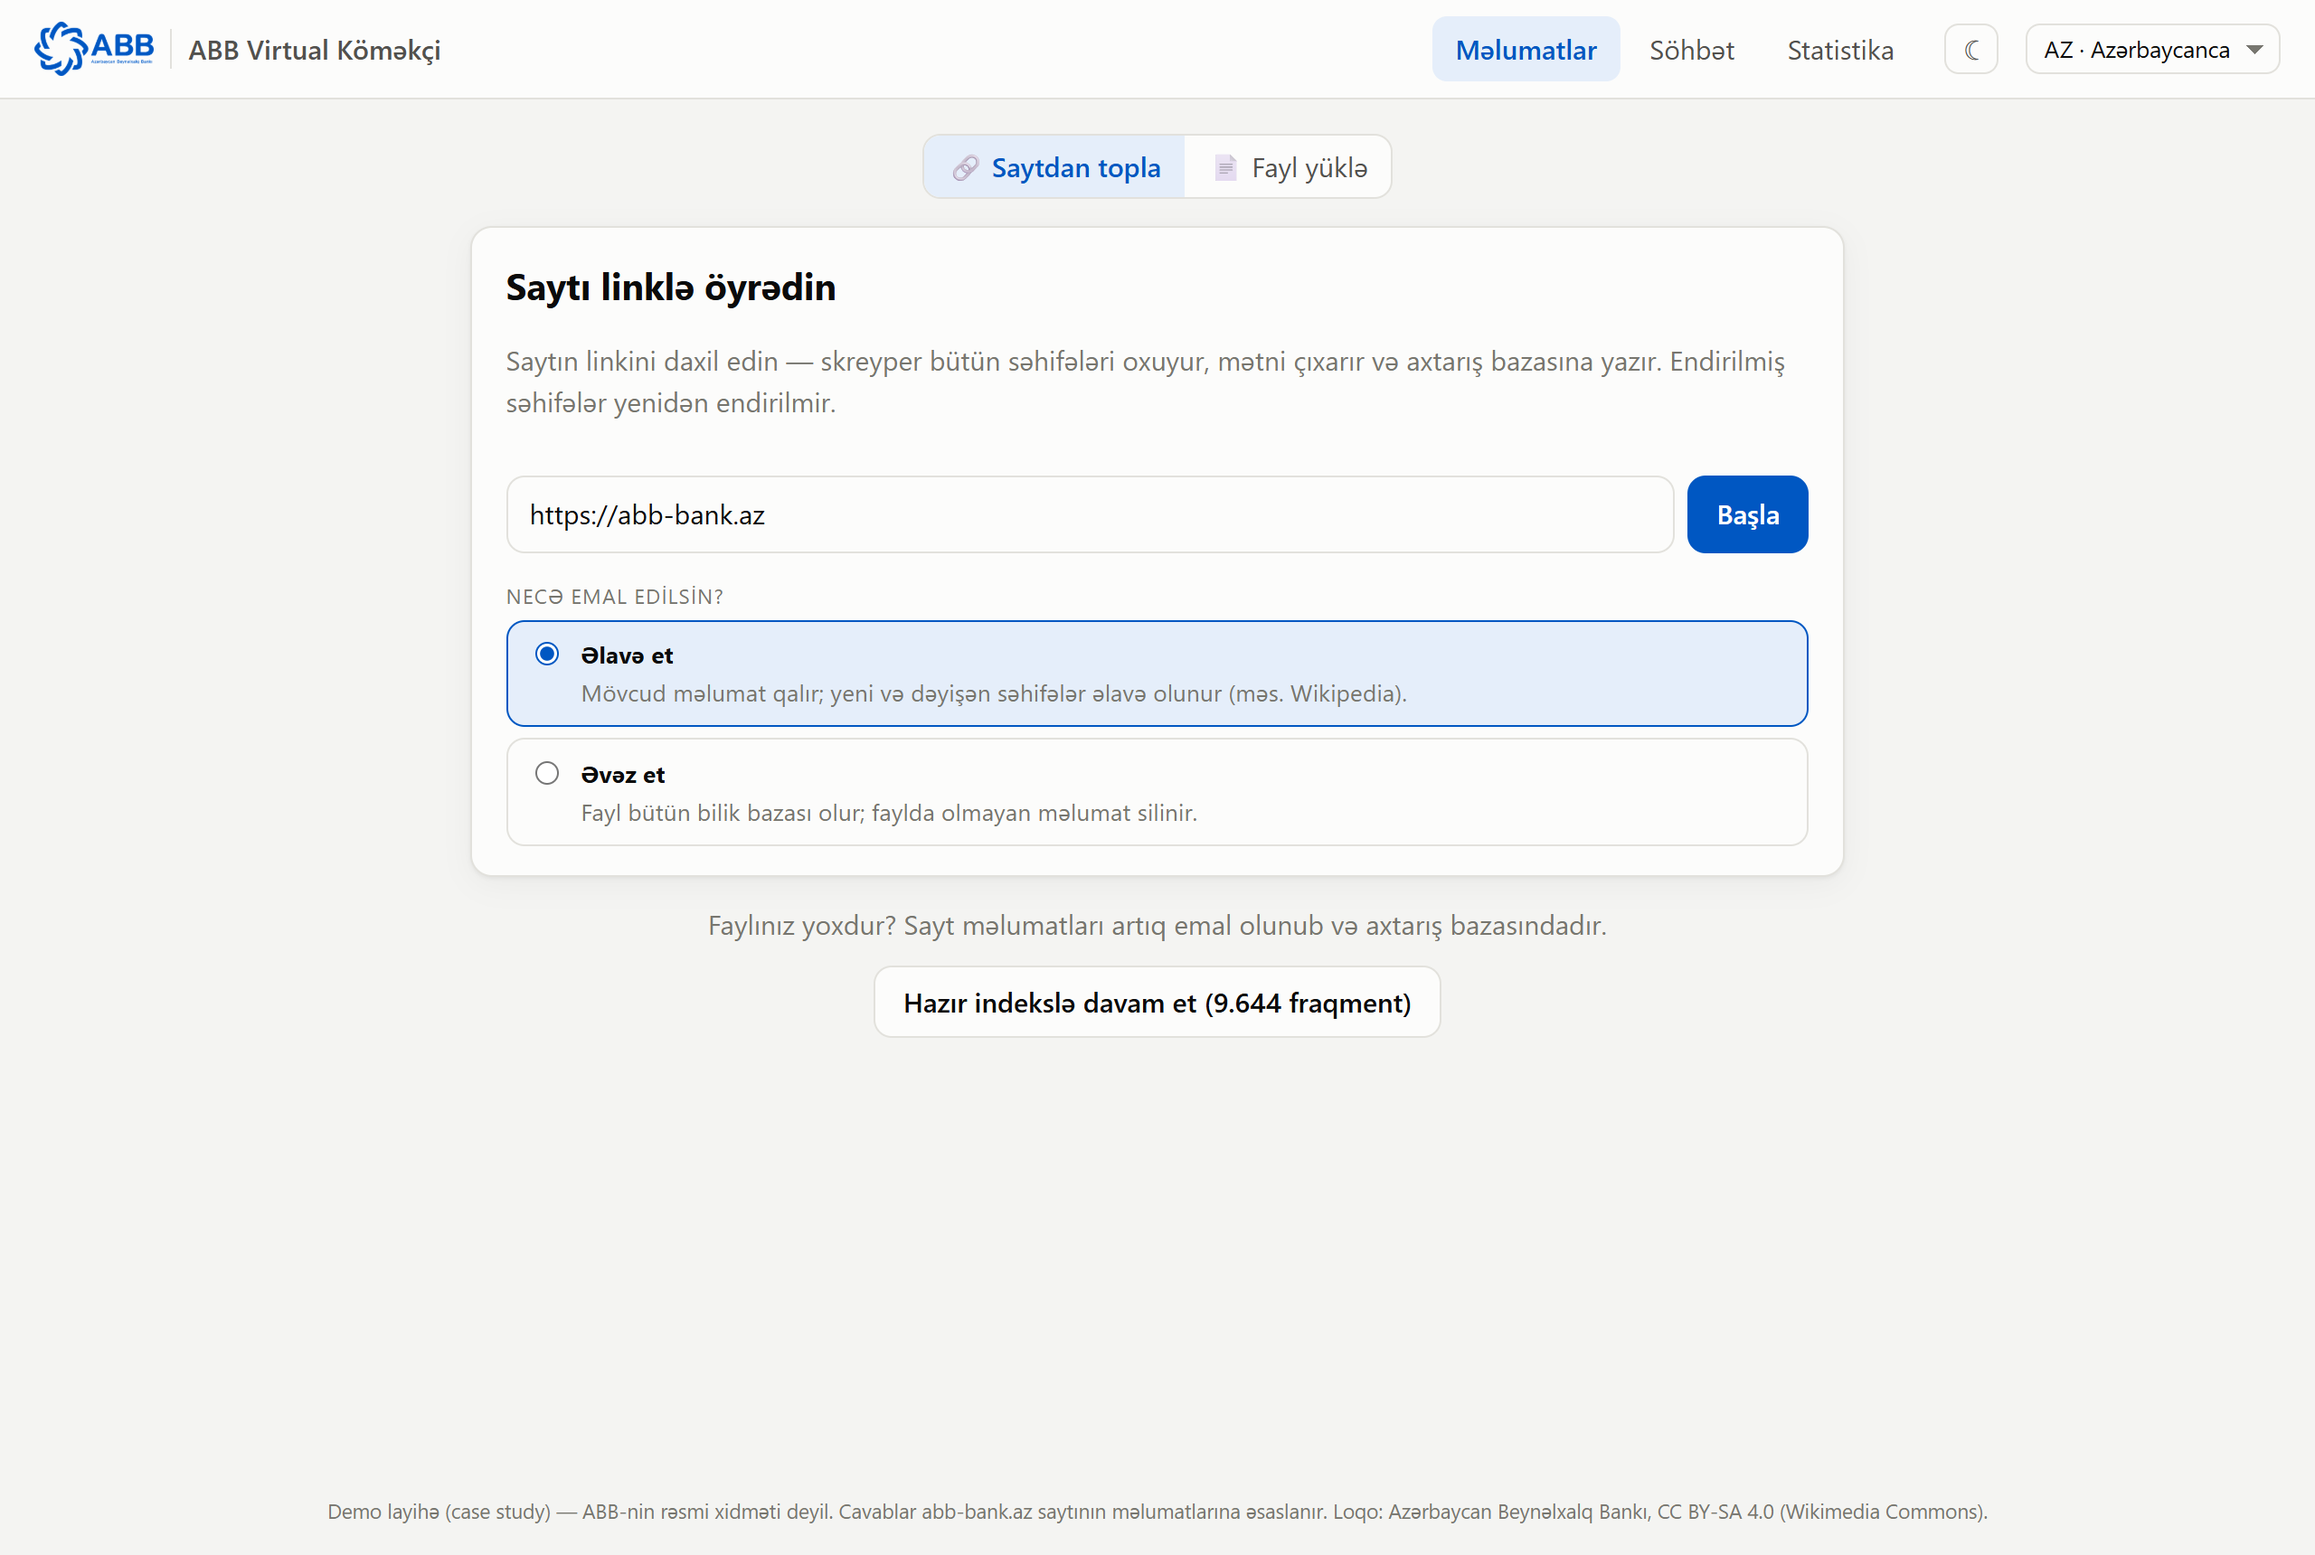
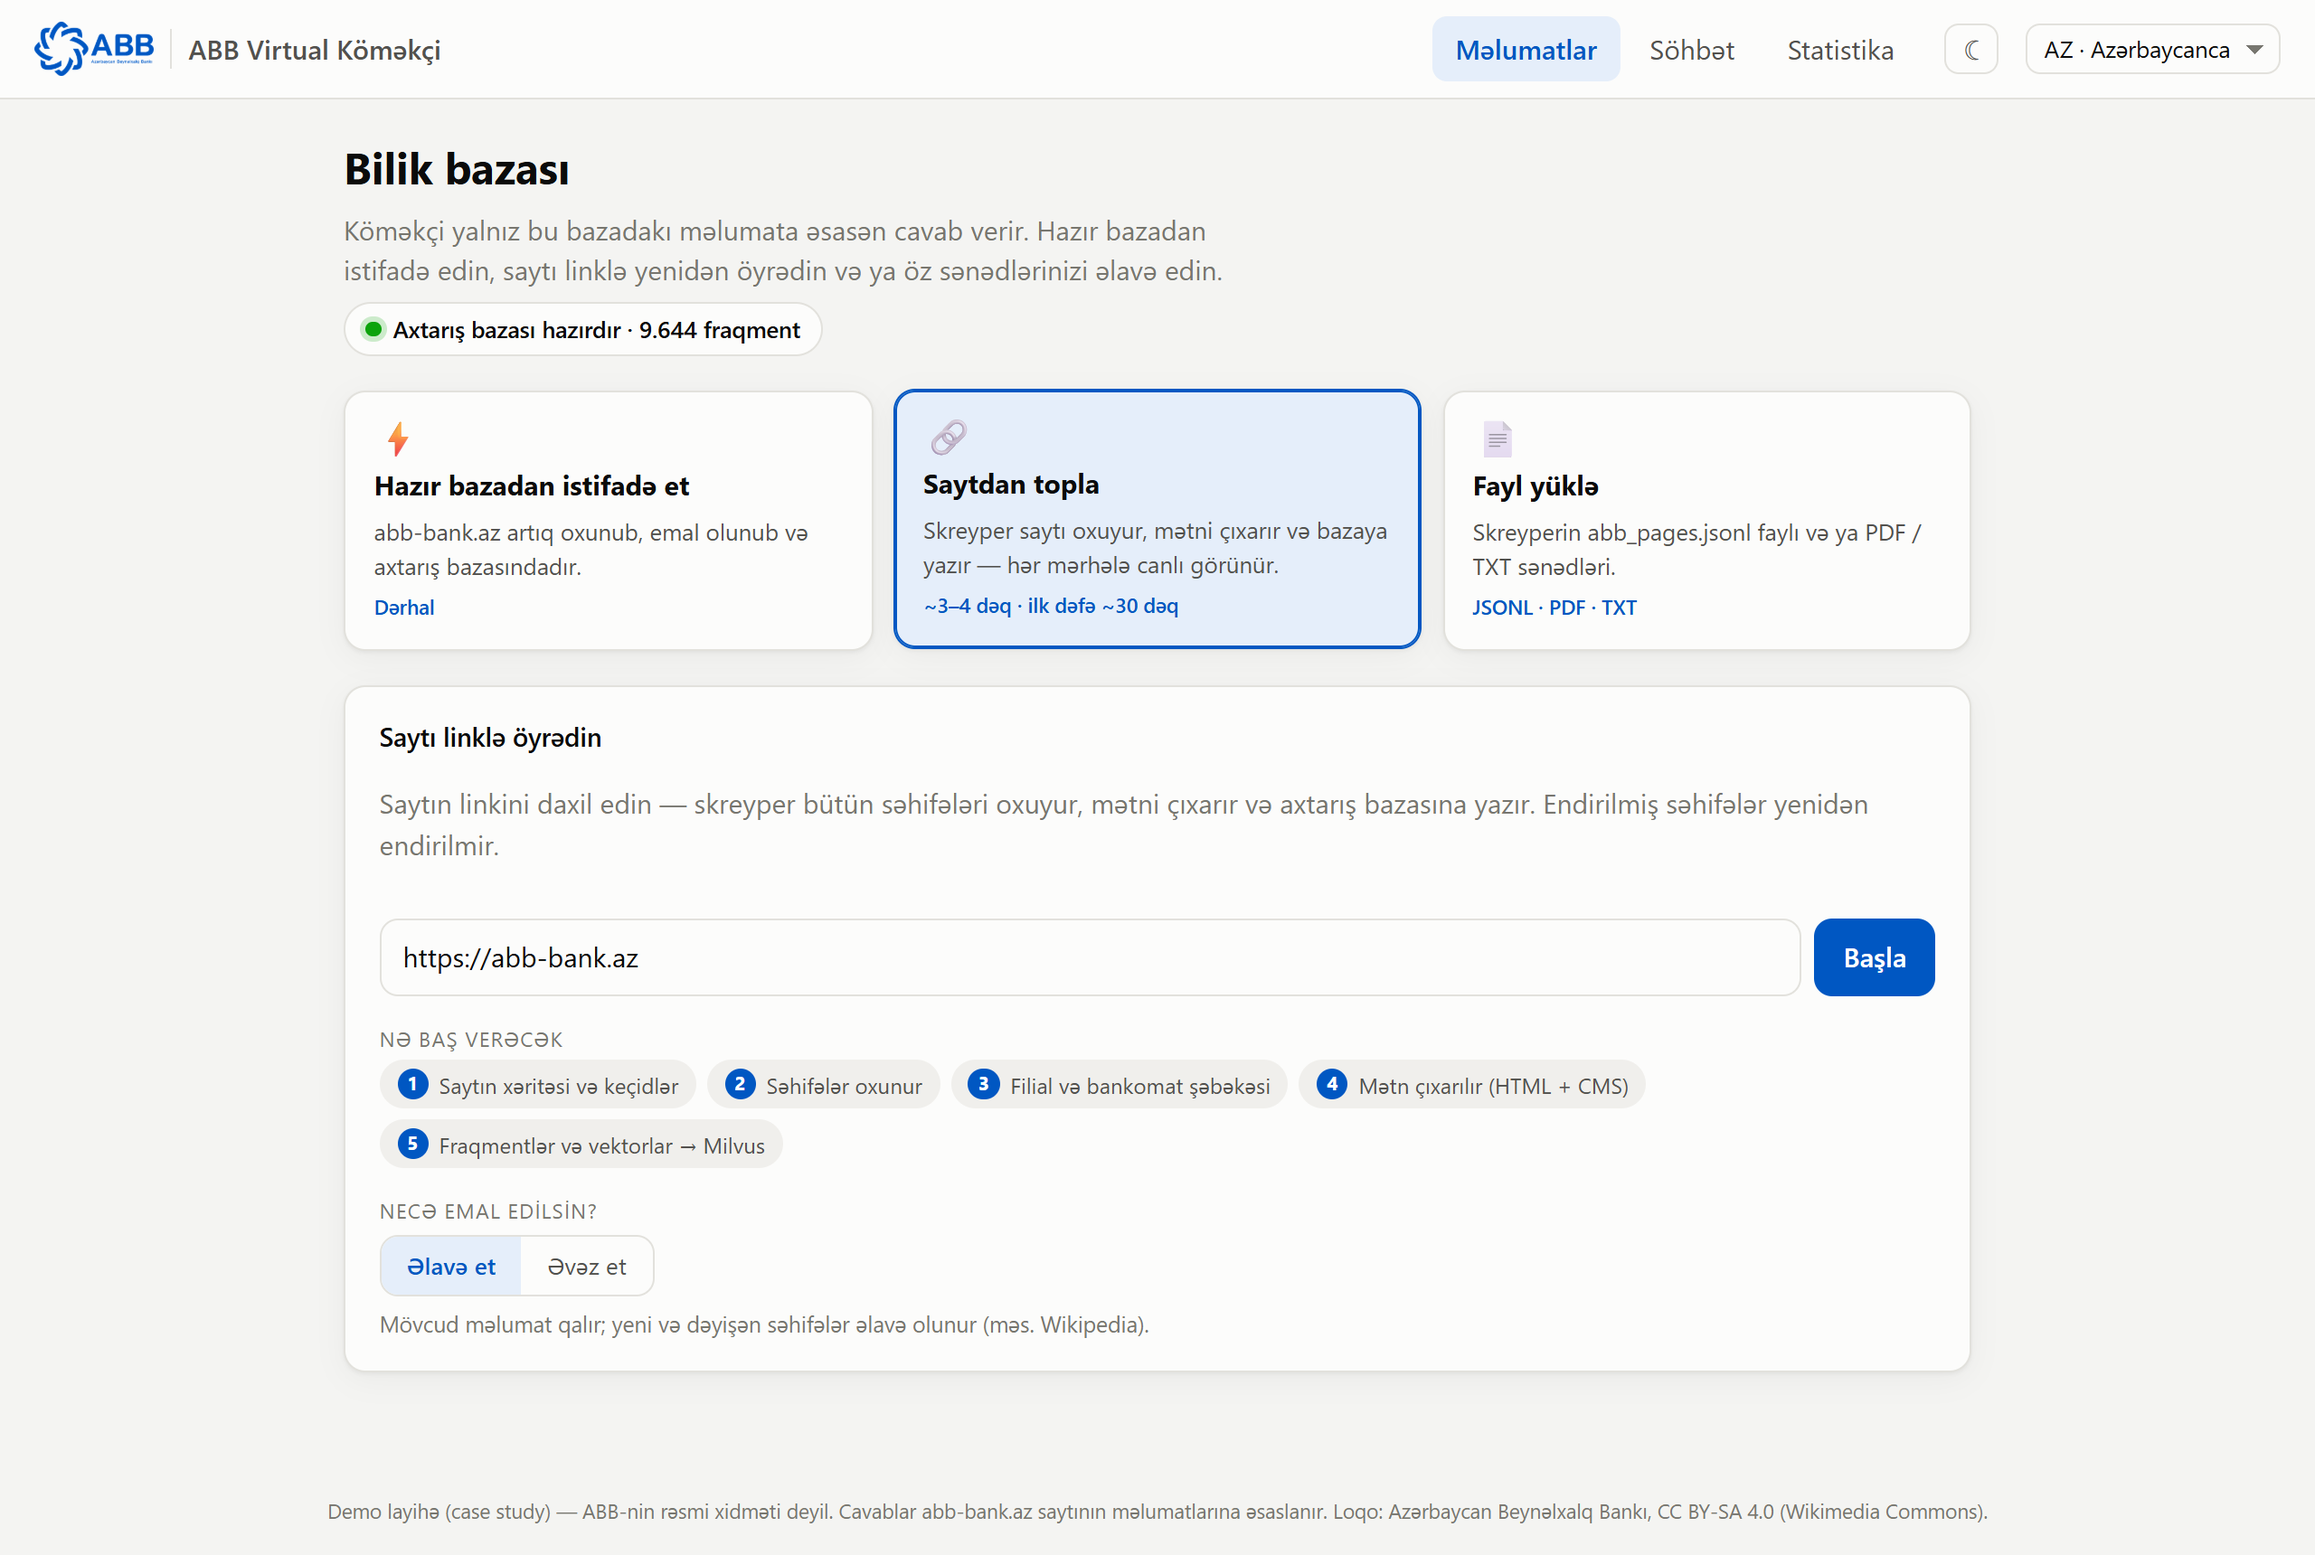
Docs: the two run modes, publishing with an access code, report 10, the new data step
README: GPU and CPU mode side by side with their measured accuracy and image
size, what publishing needs (ACCESS_CODE), the new data step screenshot.
evaluation/README and services/README list report 10, the rerank option,
the CPU mode and the access code.

diff --git a/README.md b/README.md
@@ -39,17 +39,26 @@ All numbers are measured; the sets and reports are in [evaluation/](evaluation/R
 | **Scraping** — CMS text of the site present in the output | **99.9 %** of 15 646 lines |
 | **Retrieval** — the needed passage among the 10 given to the model (200 questions, 2 independent sets) | **94 %** · all evidence in the top 5: **174 / 200** |
 | **Answers** — 56 unseen questions graded against the source text | **54 correct, 1 partial, 1 wrong · 0 invented facts** |
+| **Without a GPU** — reranker off, 15 chunks to the model | 185 / 200 with all evidence in front of the model (186 with the GPU) |
 | **Guardrail** — independent set of 80 adversarial questions (16 injection techniques) | **80 / 80** · 0 legitimate questions refused · 0 prompt leaks |
 | **Speed** | answers stream word by word: the first words after ~3–4 s, complete after ~3–7 s (search ≈ 10 ms, reranking ≈ 1 s on a GPU, the LLM the rest) |
 
 ## Quick start
 
-Requires Docker (with the NVIDIA container runtime for the GPU — see below for CPU-only) and an OpenAI API key.
+Requires Docker and an OpenAI API key. Two ways to run it — pick the one that matches the machine:
+
+| | **With an NVIDIA GPU** (best accuracy) | **Without one** (Mac, most laptops) |
+|---|---|---|
+| Command | `docker compose up -d --build` | `docker compose -f docker-compose.yml -f docker-compose.cpu.yml up -d --build` |
+| Reranker | bge-reranker-v2-m3 on the GPU, ~1 s | off — on a CPU it would take ~45 s per question |
+| Chunks given to the model | 10, re-ranked | 15, in Milvus' hybrid order |
+| Questions with all their evidence in front of the model (200) | **186** | **185** |
+| Inference image | PyTorch with CUDA, 12.5 GB | CPU build of PyTorch, 2.6 GB |
 
 ```bash
 git clone https://github.com/Rashad2173/abb-bank-ai-assistant.git && cd abb-bank-ai-assistant
 cp .env.example .env                 # put OPENAI_API_KEY into .env
-docker compose up -d --build         # → http://localhost:8080
+docker compose up -d --build         # (or the CPU command above) → http://localhost:8080
 ```
 
 | Address | What |
@@ -58,13 +67,16 @@ docker compose up -d --build         # → http://localhost:8080
 | http://localhost:8001/docs … :8005/docs | Swagger UI of chat, analytics, ingestion, inference, scraper |
 | http://localhost:8000 | Attu — browse the Milvus collection (server address `milvus:19530`) |
 
-* **First start:** the inference service downloads its two models (~4.5 GB) into a volume.
+* **First start:** the inference service downloads its models (~4.5 GB with the reranker) into a volume.
 * **The search index starts empty:** open the app and learn the site from its link (or upload a file).
   A first crawl takes ~30 minutes (polite: 6 parallel requests); with an existing page cache
   (`SCRAPER_DATA=./data docker compose up -d`) about 3 minutes.
-* **No NVIDIA GPU:** `docker compose -f docker-compose.yml -f docker-compose.cpu.yml up -d --build` —
-  embeddings run on the CPU and the reranker is switched off (≈ 45 s per question on a CPU), so answers
-  come from Milvus' hybrid order.
+* **GPU mode** needs the NVIDIA driver and Docker's GPU support (Docker Desktop with WSL 2 on Windows,
+  the NVIDIA Container Toolkit on Linux). The CPU mode uses the CPU build of PyTorch, which also exists
+  for ARM; it has not been tried on an Apple Silicon Mac.
+* **Publishing it:** set `ACCESS_CODE` in `.env`. Visitors then enter the code once (kept for 30 days),
+  the API answers `401` without it, and questions are limited to 20 a minute per visitor. Empty — the
+  default — leaves the app open.
 
 ## Using the app
 
@@ -74,10 +86,11 @@ docker compose up -d --build         # → http://localhost:8080
 <td width="50%"><img src="assets/screenshots/guardrail.png" alt="Refused questions"></td>
 </tr>
 <tr>
-<td><b>1 · Data.</b> Learn the site from its link — every stage shown live (pages found and read,
-documents, chunks, embeddings) — or upload <code>abb_pages.jsonl</code> or PDF / TXT documents.
-<b>Add</b> keeps what is indexed, <b>Replace</b> makes the upload the whole knowledge base; only new or
-changed chunks are embedded. The data is kept in the browser's localStorage (compressed: 21 MB → 1.5 M characters).</td>
+<td><b>1 · Data.</b> The knowledge base and its state, and three ways in: the data already indexed,
+the site learned from its link — every stage shown live (pages found and read, documents, chunks,
+embeddings) — or <code>abb_pages.jsonl</code> / PDF / TXT uploads. <b>Add</b> keeps what is indexed,
+<b>Replace</b> makes the new data the whole knowledge base; only new or changed chunks are embedded.
+The data is kept in the browser's localStorage (compressed: 21 MB → 1.5 M characters).</td>
 <td><b>2 · Chat.</b> Answers stream word by word, in the question's language, with numbered sources, campaign status and dates.
 Follow-up questions, quoting part of an answer, a conversation sidebar, dark mode, AZ / EN / RU interface.
 Off-topic questions, other banks, personal advice and prompt injection are refused.</td>
@@ -167,7 +180,7 @@ removed, refusals carry no sources, uncited answers flagged) → measured on 144
 ├── retrieval/            chunking, Milvus store, benchmarks (abb_retrieval)
 ├── services/             chat · analytics · ingestion · inference · scraper (FastAPI) + service_common
 ├── frontend/             React app (Vite, TypeScript), nginx config
-├── evaluation/           test sets (retrieval / guardrail / answers) + reports 00–09
+├── evaluation/           test sets (retrieval / guardrail / answers) + reports 00–10
 ├── scripts/              smoke test, evaluation runners, Wikipedia → upload file
 ├── tests/                pytest suite
 ├── docker-compose.yml    the whole application (docker-compose.cpu.yml: machines without a GPU)
@@ -202,7 +215,8 @@ The offline pipeline (scrape → chunk → benchmark → Milvus check) and its c
 
 * The scraper is built for abb-bank.az and refuses other sites; other sources can be added as upload files.
 * Tables inside PDFs lose their column structure in text extraction; text-heavy PDFs work well.
-* The reranker needs a GPU for interactive answers; without one the chat falls back to Milvus' order.
+* The reranker needs a GPU for interactive answers; the CPU mode switches it off and gives the model 15
+  chunks instead, which recovers almost all of the difference (report 10).
 * Two same-shaped tables on one page can occasionally be mixed up in an answer (1 of 56 graded answers).
 
 ---

diff --git a/services/README.md b/services/README.md
@@ -56,7 +56,7 @@ Interactive API docs: `http://localhost:<port>/docs`.
 
 | Endpoint | Body → response |
 |----------|-----------------|
-| `POST chat /v1/chat` | `{question, history?, session_id?, quote?}` → `{answer, status, refusal_reason, language, sources[], standalone_question, search_queries, reranked, model, timings, request_id}` |
+| `POST chat /v1/chat` | `{question, history?, session_id?, quote?, rerank?}` (`rerank: false` answers from Milvus' order, as without a GPU) → `{answer, status, refusal_reason, language, sources[], standalone_question, search_queries, reranked, model, timings, request_id}` |
 | `POST chat /v1/chat/stream` | the same request → `application/x-ndjson`, one event per line: `sources` (the chunks given to the model) → `status` → `delta` … (pieces of the answer) → `done` (the `/v1/chat` response, checked). Failures before the first byte are ordinary JSON errors; later ones arrive as an `error` event |
 | `POST analytics /v1/interactions` | one interaction (sent by chat) → stored row with `id`, `created_at` |
 | `GET analytics /v1/interactions` | `?limit&offset&status` → `{items, total}`, newest first |
@@ -88,4 +88,6 @@ prompt_injection, harmful) or `no_information` (about ABB, but not in the source
 | Citations checked in code | Labels that do not match a given source are removed; refusals carry no sources; uncited answers are flagged (`grounded: false`) |
 | Recording after the response | The chat service sends the interaction to analytics as a background task; a failure is logged and never breaks chatting |
 | Ingestion diffs by content hash | An upload replaces the corpus, but only new or changed chunks are embedded — re-uploading the same 4 223 pages takes ~12 s |
+| CPU mode gives the model 15 chunks | Without the reranker, 15 chunks in Milvus' order put almost as many questions' evidence in front of the model as 10 re-ranked ones: 185 vs. 186 of 200 (evaluation report 10) |
+| Optional access code in nginx | A public demo spends the project's OpenAI budget: with `ACCESS_CODE` set, the UI and the API need the code (kept in a cookie), and questions are limited to 20 a minute per visitor. Empty (the default): open |
 | `.env` wins over machine variables | A stray `OPENAI_API_KEY` in the user's environment must not silently replace the project's key |

diff --git a/evaluation/README.md b/evaluation/README.md
@@ -8,7 +8,7 @@ evaluation/
 ├── retrieval/   question sets for retrieval (do the right chunks come back?)
 ├── guardrail/   question sets for the guardrail (is out-of-scope refused, in-scope answered?)
 ├── answers/     question set for answer quality (is the final answer right?)
-└── reports/     00–07, generated by the commands below
+└── reports/     00–10, generated by the commands below
 ```
 
 | Report | Measures | Set | Result |
@@ -22,6 +22,7 @@ evaluation/
 | [07_answer_quality](reports/07_answer_quality.md) | the final answer, graded against the source text | `answers/answer_set.json` (56) | **54 correct, 1 partial, 1 wrong; 0 invented facts** (first run: 51 / 2 / 3) |
 | [08_retrieval_pipeline](reports/08_retrieval_pipeline.md) | query planning (Azerbaijani search, tender filter) on / off | sets A + B, answer set | source page reaches the model: 49 → 51 of 53; Russian 3 → 5 of 5 |
 | [09_retrieval_methods](reports/09_retrieval_methods.md) | dense + sparse vs. dense + BM25 vs. all three, full pipeline | sets A + B, answer set | all three: 174 / 200, 52 / 53 — best or equal everywhere |
+| [10_without_reranker](reports/10_without_reranker.md) | with vs. without the reranker (CPU mode), 5–20 chunks to the model | sets A + B, answer set | all evidence in front of the model: 186 / 200 (reranker, 10 chunks) vs. 185 / 200 (no reranker, 15 chunks) |
 
 ## Question sets
 
@@ -46,4 +47,6 @@ cd ..
 python scripts/eval_guardrail.py                                                 # report 05
 python scripts/eval_guardrail.py --questions evaluation/guardrail/guardrail_set_independent.json --report 06_guardrail_independent
 python scripts/collect_answers.py && python scripts/answer_grades.py            # report 07 (grades are reviewed by hand)
+python scripts/eval_retrieval_pipeline.py                                       # report 08 (09: see the script's docstring)
+python scripts/eval_without_reranker.py                                         # report 10
 ```

diff --git a/REQUIREMENTS.md b/REQUIREMENTS.md
@@ -69,6 +69,8 @@ Legend: ⬜ not started · 🟨 in progress · ✅ done
 - Learning the site from its link, with live progress (scraper service)
 - PDF / TXT document uploads; Add / Replace modes; only changed chunks are embedded
 - Answers streamed word by word (first words after ~3–4 s instead of the whole answer after ~5–7 s)
+- Runs with or without an NVIDIA GPU (CPU mode: reranker off, 15 chunks — measured in report 10)
+- Optional access code and rate limit for a public demo (`ACCESS_CODE` in `.env`)
 - Query planning: follow-ups, quoting part of an answer, Azerbaijani search for EN / RU questions
 - Conversation sidebar, dark mode, AZ / EN / RU interface
 - Evaluation sets and reports for every stage (`evaluation/`)
